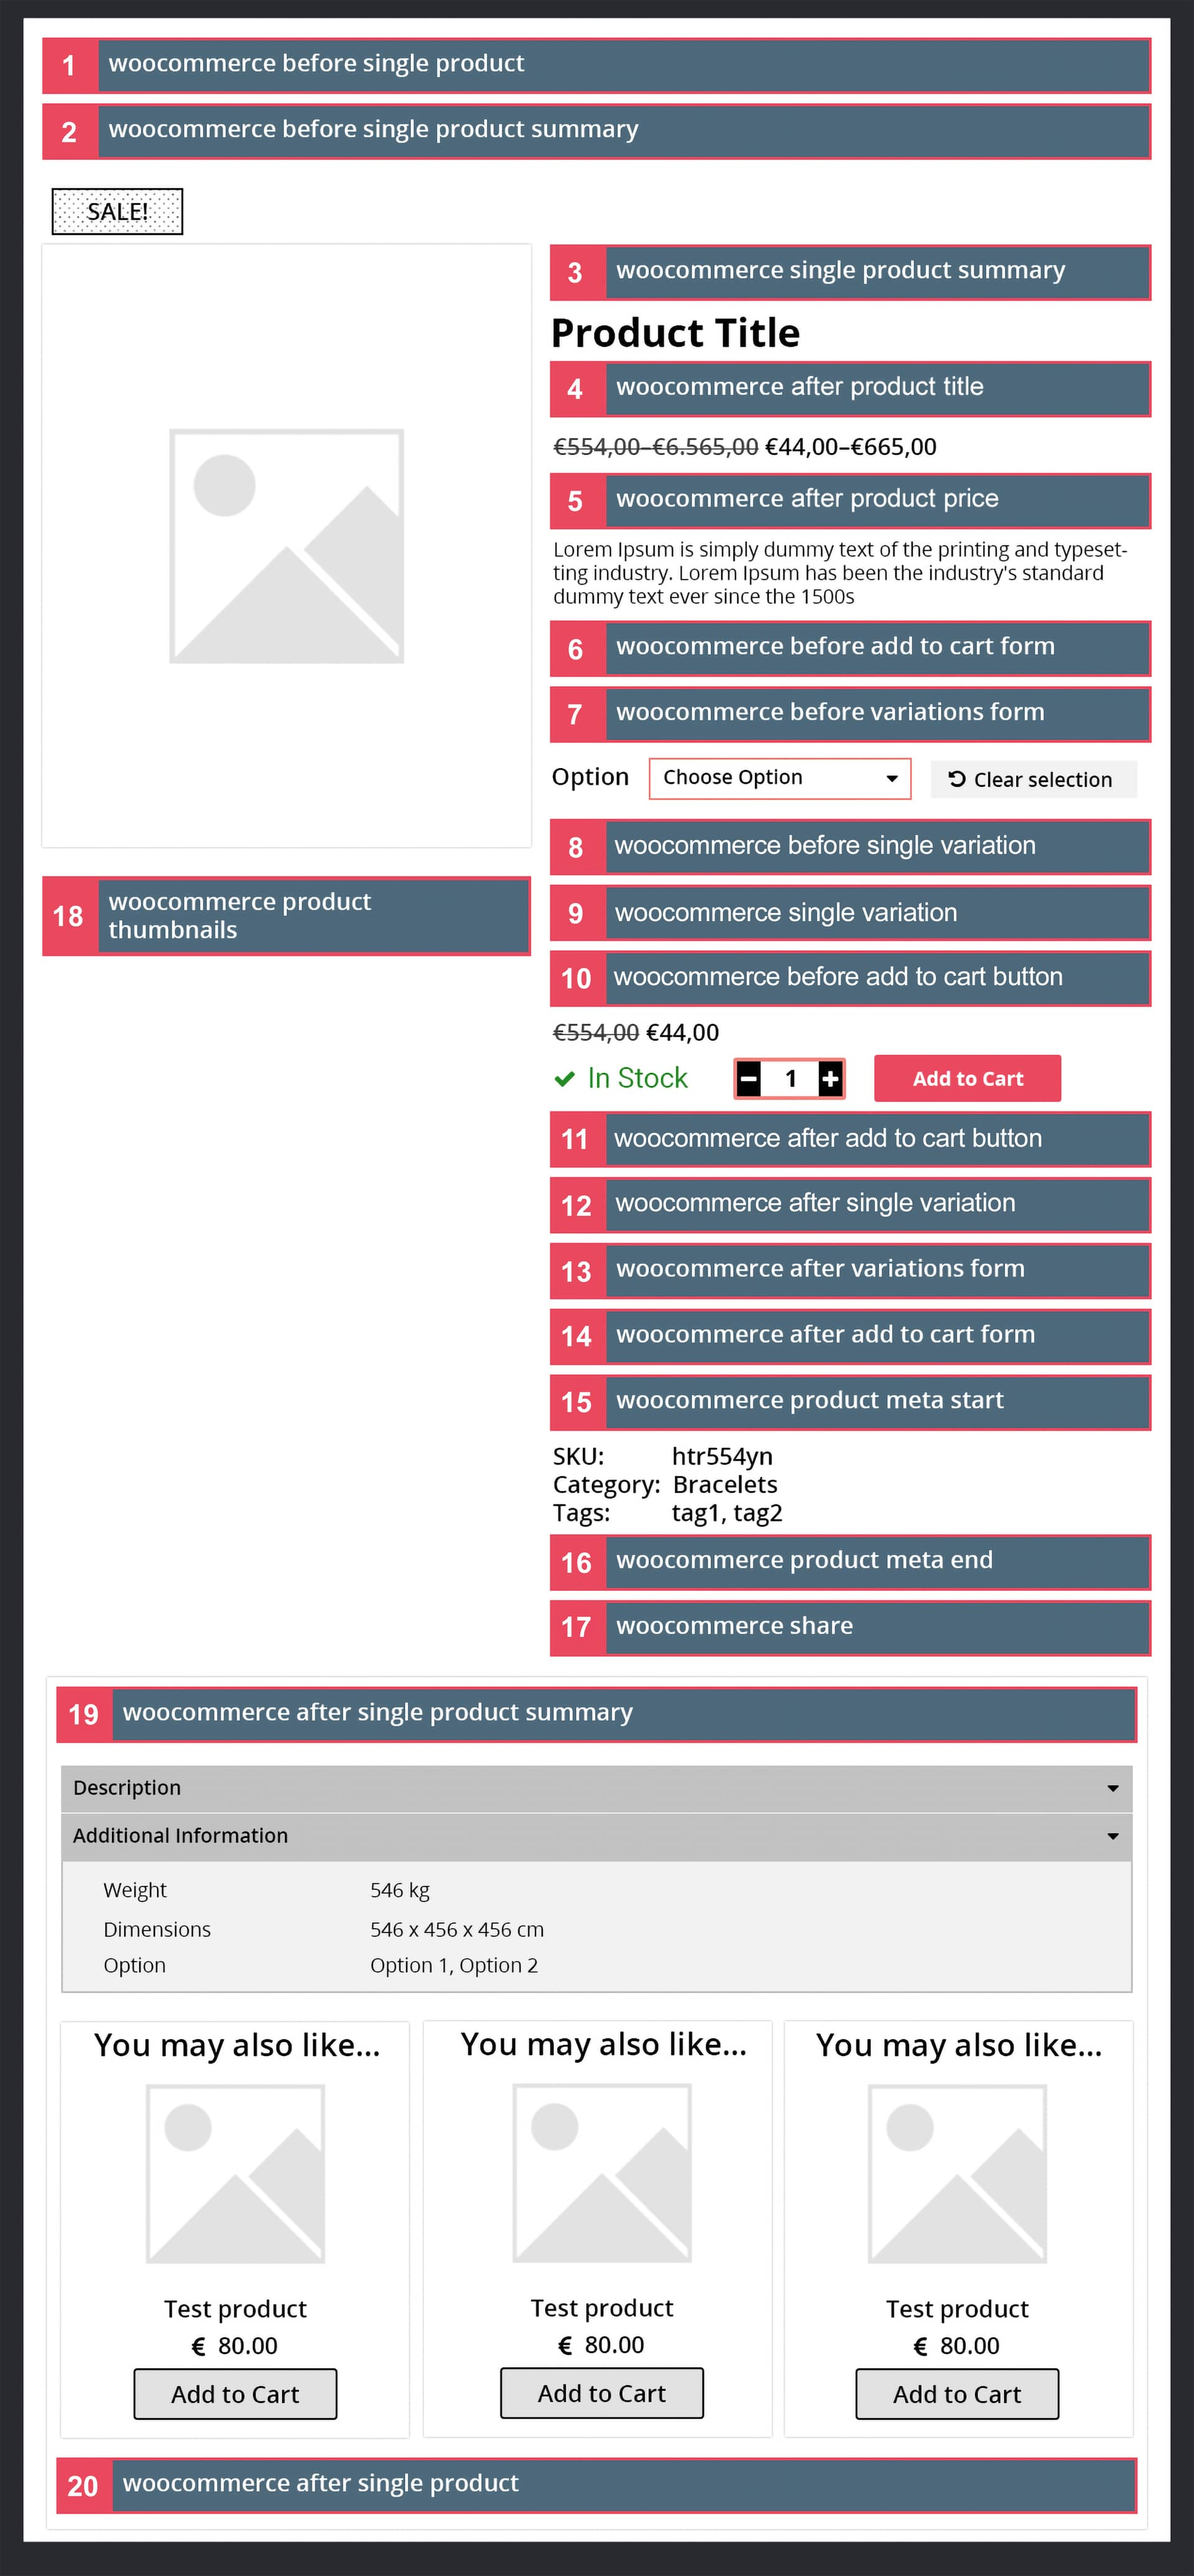
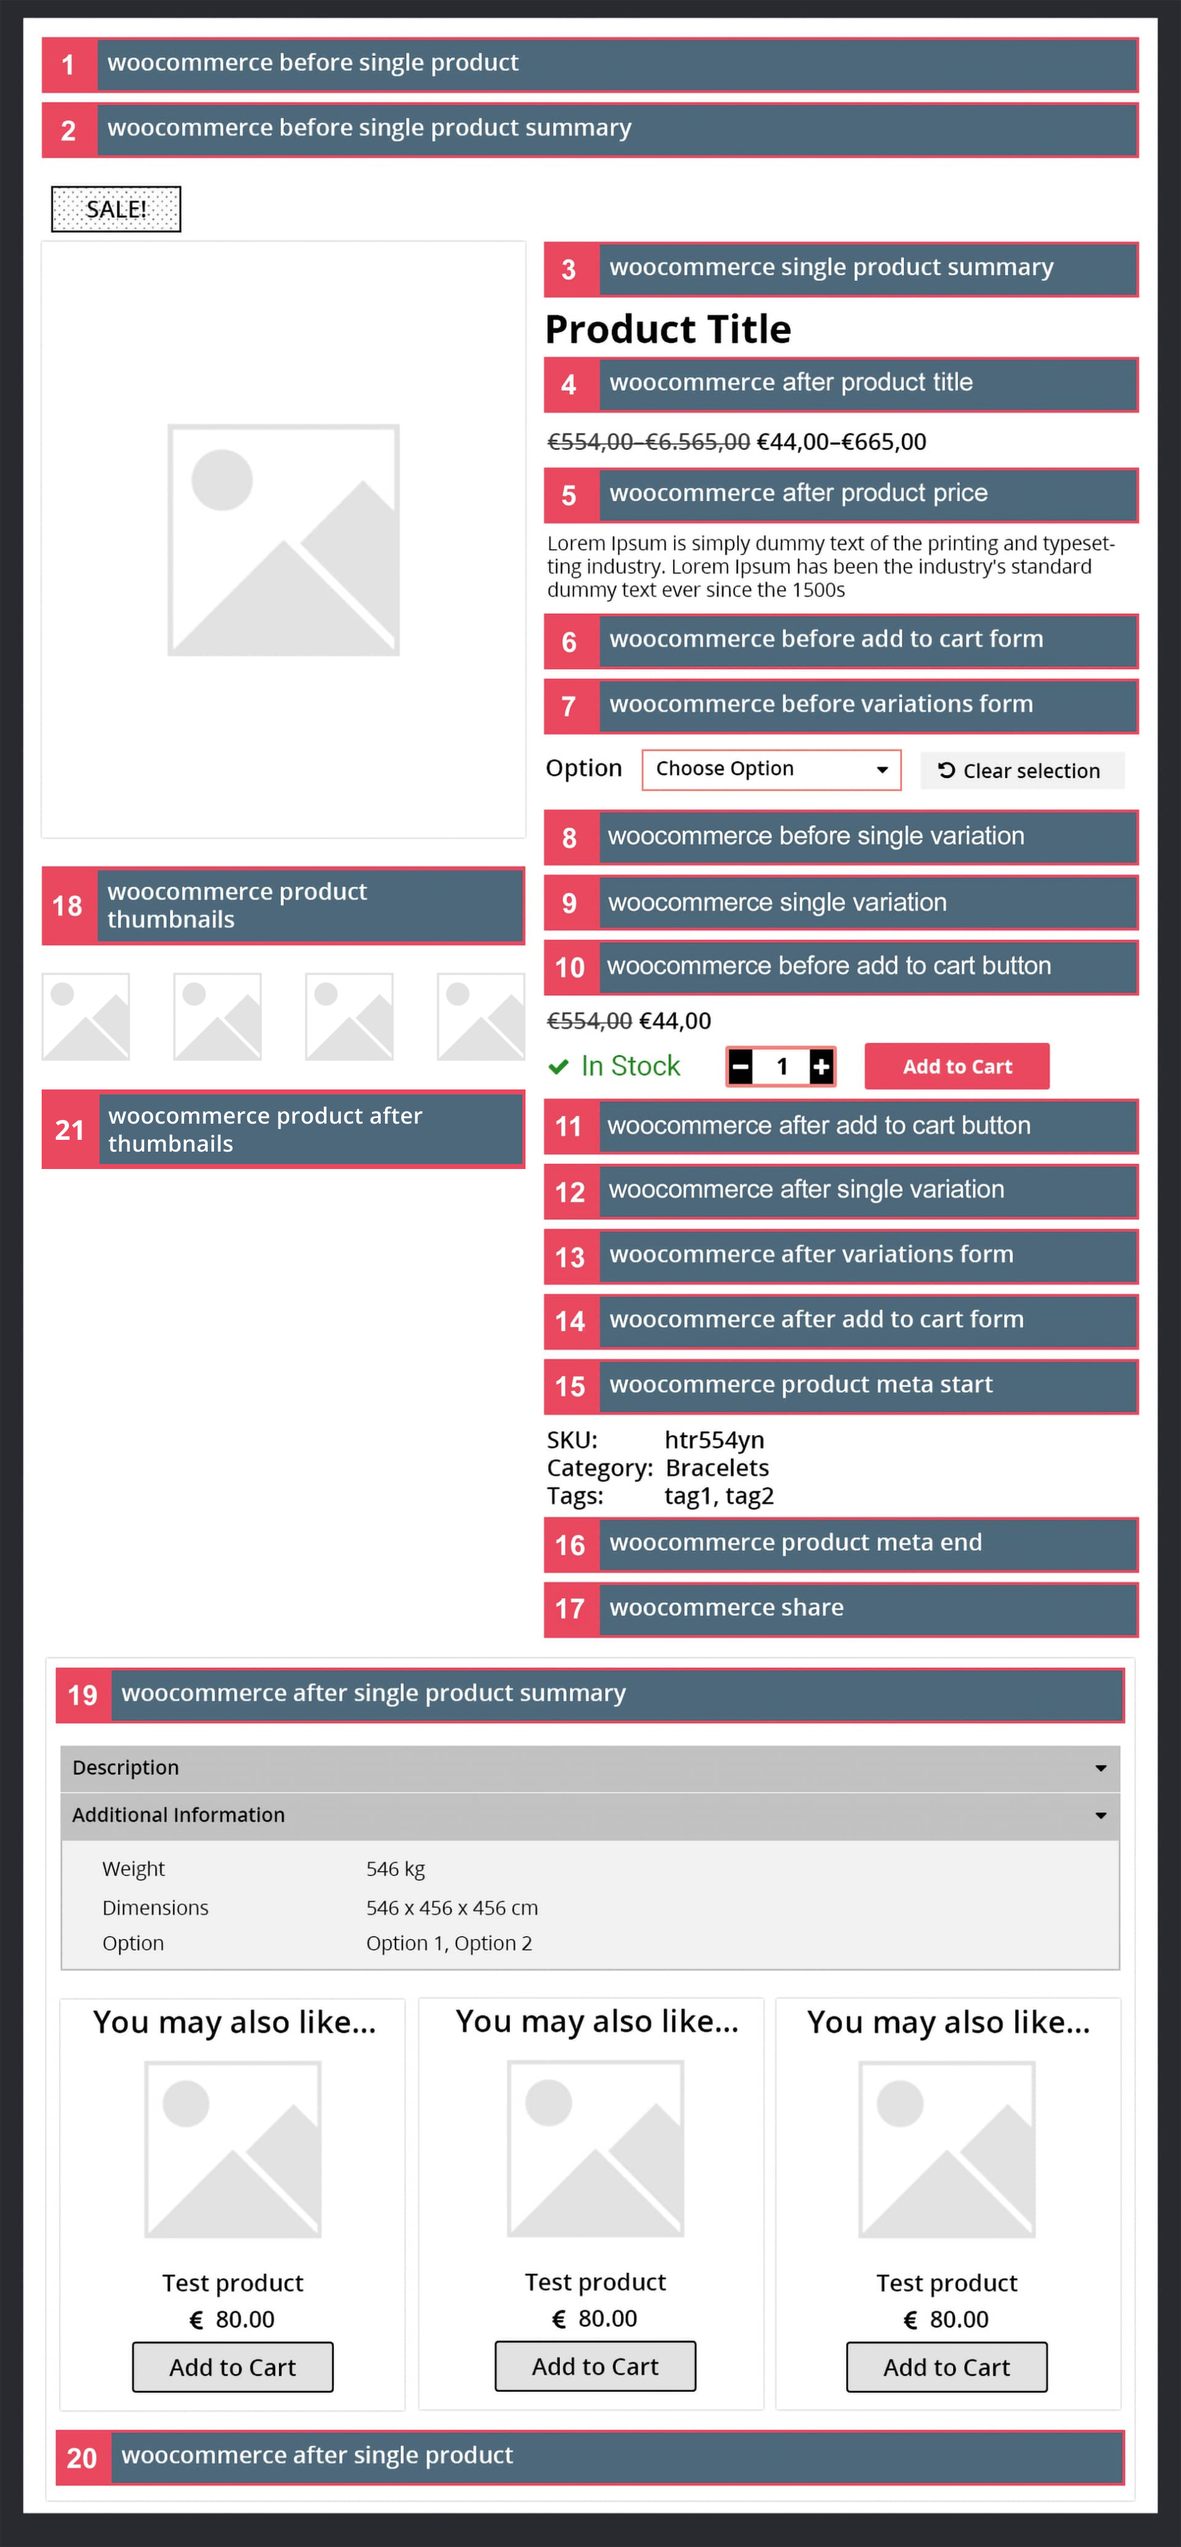
v2.1

Changed region(s): [[0.0311, 0.375, 0.466, 0.4688]]

diff --git a/front/single-category-meta.php b/front/single-category-meta.php
@@ -163,7 +163,11 @@ if (!class_exists('wsppcp_product_categories_hook_content')) {
                             foreach ($all_categories_hook as $key => $wsppcp_hook) {
 								if($key == "woocommerce_after_product_thumbnails") {
 									echo '<div class="woocommerce-after-product-thumbnails-script"><script type="text/javascript">';
-									echo 'window.addEventListener("load",function(){var e=document.querySelector(".woocommerce-product-gallery");if(e){var r=e.querySelector(".woocommerce_after_product_thumbnails");if(r)r.innerHTML="'.wsppcp_output($wsppcp_hook).'";else{var o=document.createElement("div");o.className="woocommerce_after_product_thumbnails",o.innerHTML="'.wsppcp_output($wsppcp_hook).'",e.appendChild(o)}}});';
+									echo 'window.addEventListener("load",function(){var e=document.querySelector(".woocommerce-product-gallery");if(e){var r=e.querySelector(".woocommerce_after_product_thumbnails");if(r)r.innerHTML=';
+									echo "'".wsppcp_output($wsppcp_hook)."'";
+									echo ';else{var o=document.createElement("div");o.className="woocommerce_after_product_thumbnails",o.innerHTML=';
+									echo "'".wsppcp_output($wsppcp_hook)."'";
+									echo ',e.appendChild(o)}}});';
 									echo '</script></div>';
 									$inner_count++;
 									continue;
@@ -214,7 +218,11 @@ if (!class_exists('wsppcp_product_categories_hook_content')) {
 						foreach ($single_page_hook_list as $key => $wsppcp_hook) {
 							if($key == "woocommerce_after_product_thumbnails") {
 								echo '<div class="woocommerce-after-product-thumbnails-script"><script type="text/javascript">';
-								echo 'window.addEventListener("load",function(){var e=document.querySelector(".woocommerce-product-gallery");if(e){var r=e.querySelector(".woocommerce_after_product_thumbnails");if(r)r.innerHTML="'.wsppcp_output($wsppcp_hook).'";else{var o=document.createElement("div");o.className="woocommerce_after_product_thumbnails",o.innerHTML="'.wsppcp_output($wsppcp_hook).'",e.appendChild(o)}}});';
+								echo 'window.addEventListener("load",function(){var e=document.querySelector(".woocommerce-product-gallery");if(e){var r=e.querySelector(".woocommerce_after_product_thumbnails");if(r)r.innerHTML=';
+								echo "'".wsppcp_output($wsppcp_hook)."'";
+								echo ';else{var o=document.createElement("div");o.className="woocommerce_after_product_thumbnails",o.innerHTML=';
+								echo "'".wsppcp_output($wsppcp_hook)."'";
+								echo ',e.appendChild(o)}}});';
 								echo '</script></div>';
 								$inner_count++;
 								continue;

diff --git a/front/index.php b/front/index.php
@@ -148,7 +148,9 @@ function woocommerce_single_after_product_thumbnails() {
     $wsppcp_hooks = wsppcp_get_hook();
     if (isset($wsppcp_hooks['woocommerce_after_product_thumbnails']) && !empty($wsppcp_hooks['woocommerce_after_product_thumbnails'])) {
         echo '<div class="woocommerce-after-product-thumbnails-script"><script type="text/javascript">';
-        echo 'window.addEventListener("load",function(){if(document.querySelectorAll(".woocommerce-product-gallery").length>0&&document.querySelectorAll(".woocommerce-product-gallery").length>0){var e=document.querySelector(".woocommerce-product-gallery"),r=document.createElement("div");r.className="woocommerce_after_product_thumbnails",r.innerHTML="'.wp_kses_post(wsppcp_output($wsppcp_hooks['woocommerce_after_product_thumbnails'])).'",e.appendChild(r)}});';
+        echo 'window.addEventListener("load",function(){if(document.querySelectorAll(".woocommerce-product-gallery").length>0&&document.querySelectorAll(".woocommerce-product-gallery").length>0){var e=document.querySelector(".woocommerce-product-gallery"),r=document.createElement("div");r.className="woocommerce_after_product_thumbnails",r.innerHTML=';
+        echo "'".wp_kses_post(wsppcp_output($wsppcp_hooks['woocommerce_after_product_thumbnails']))."'";
+        echo ',e.appendChild(r)}});';
         echo '</script></div>';
     }
 }
